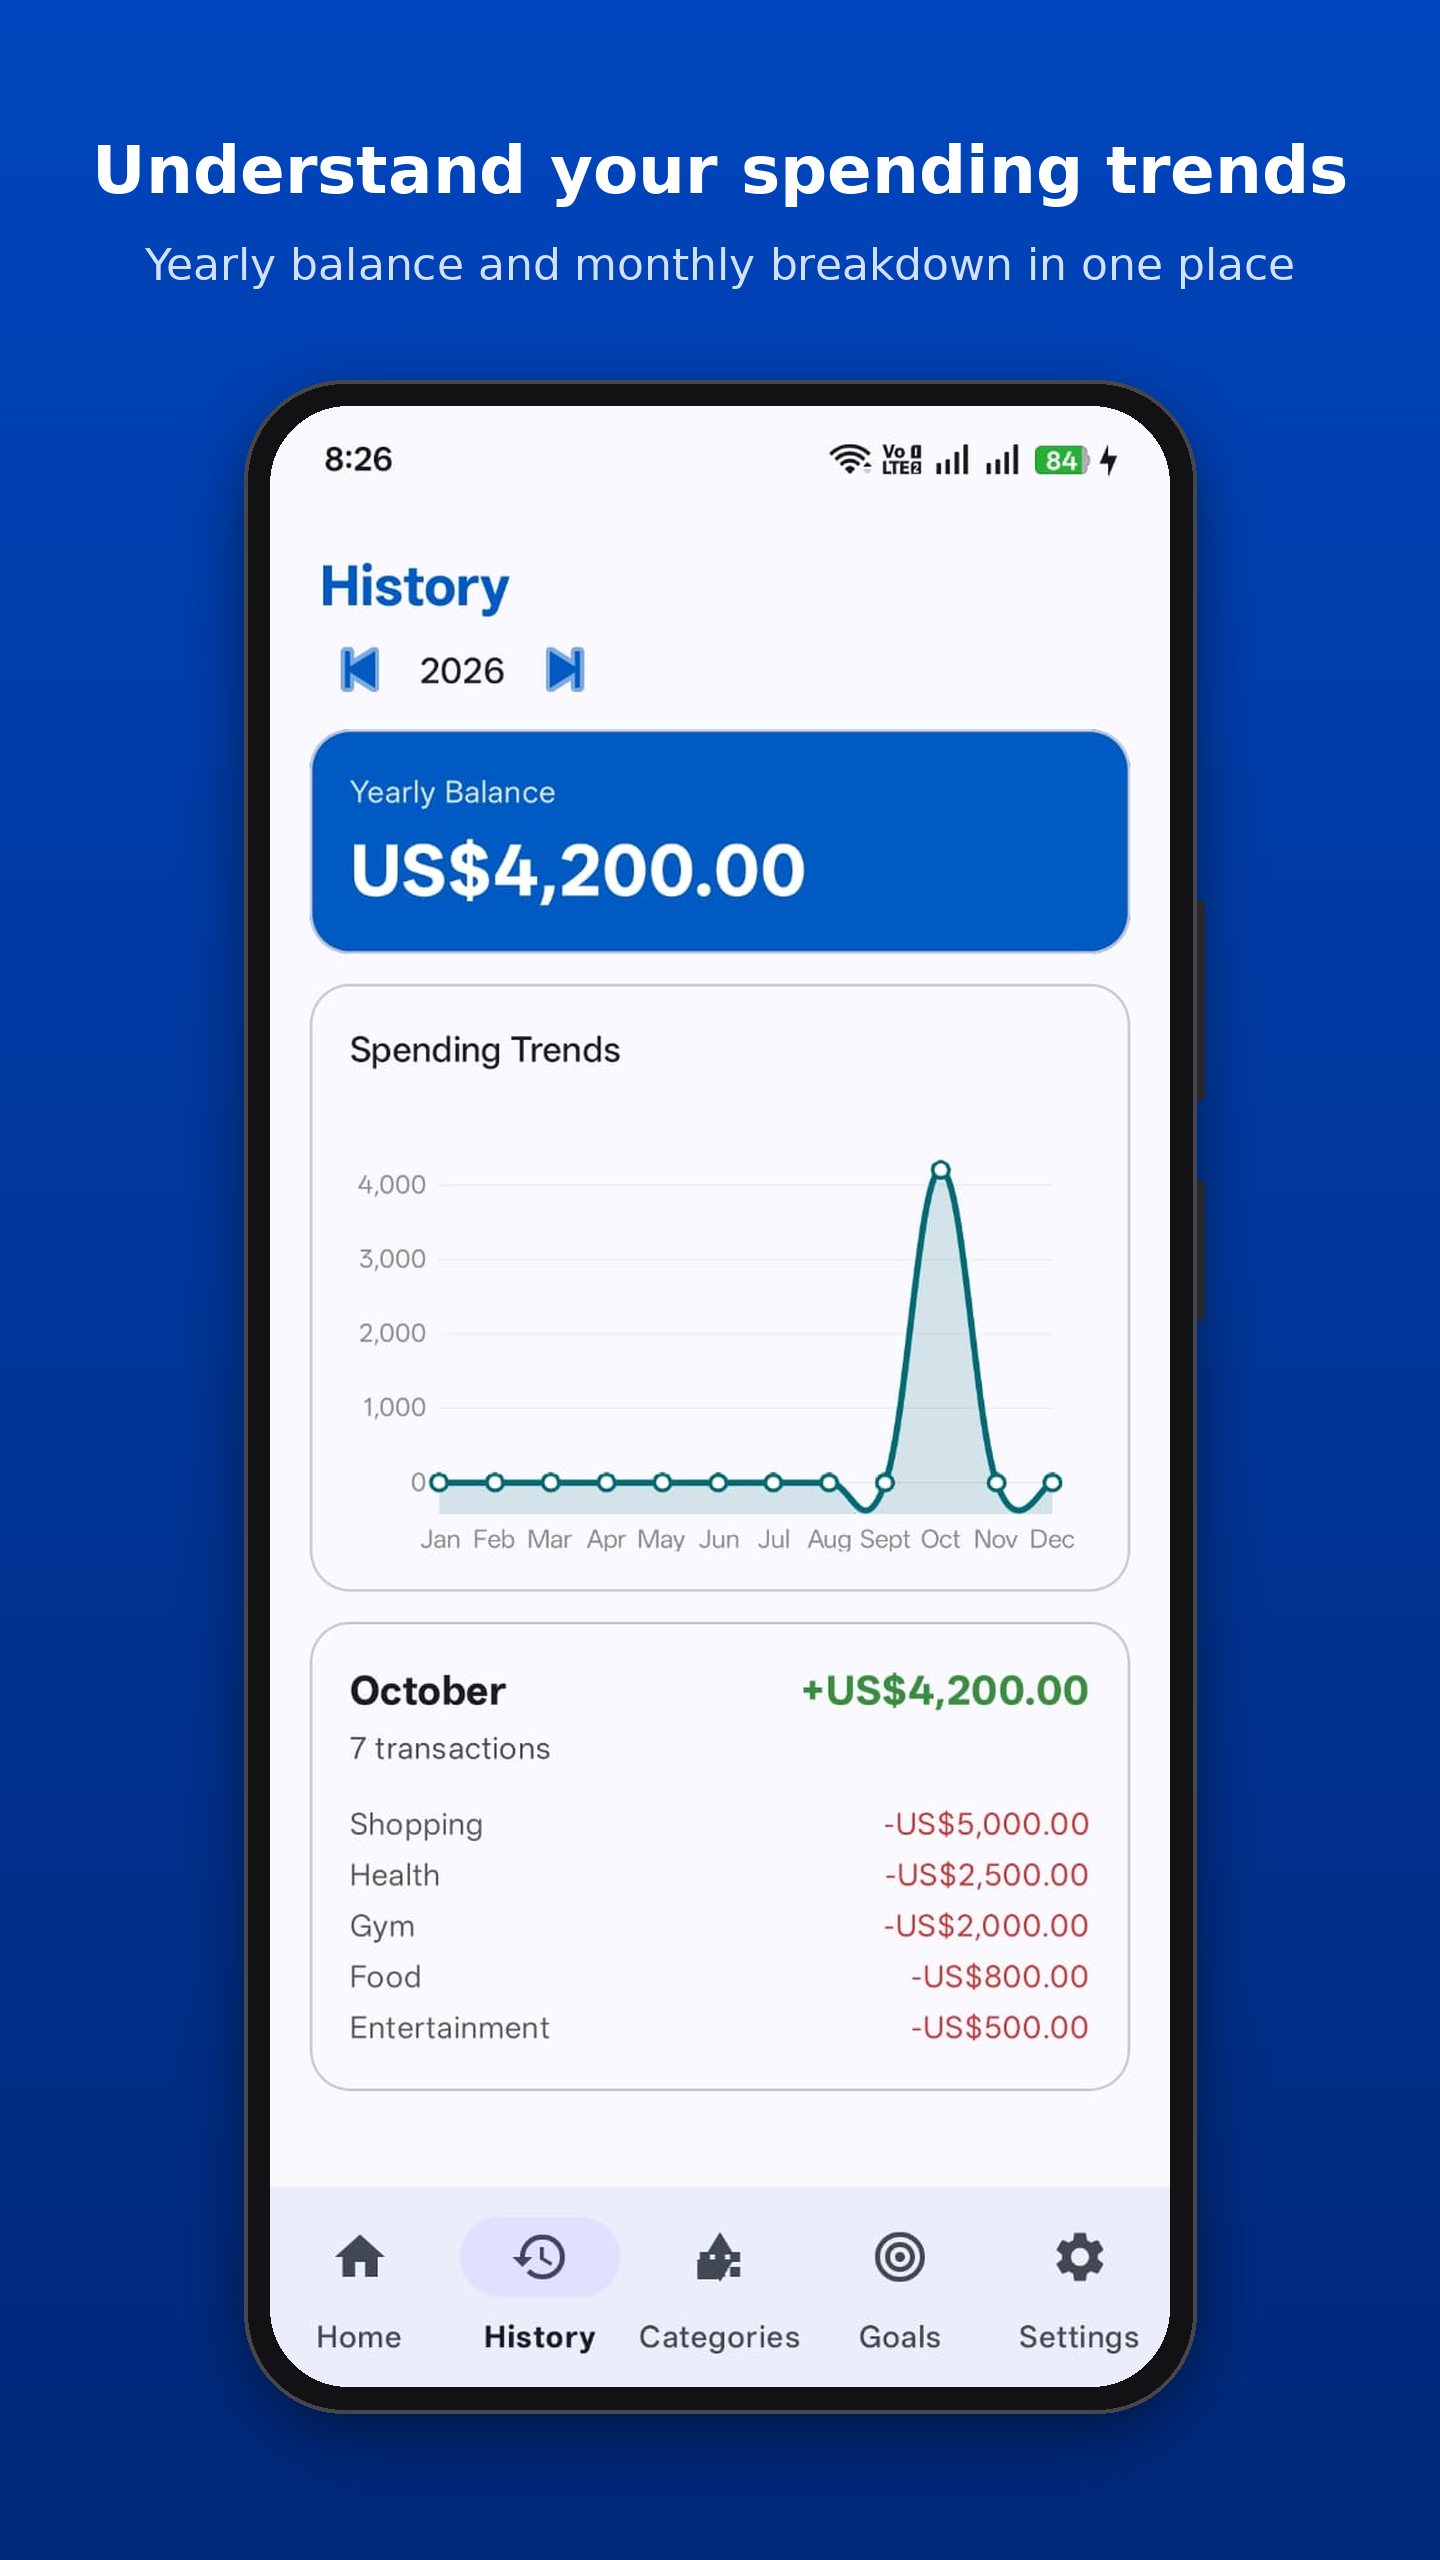
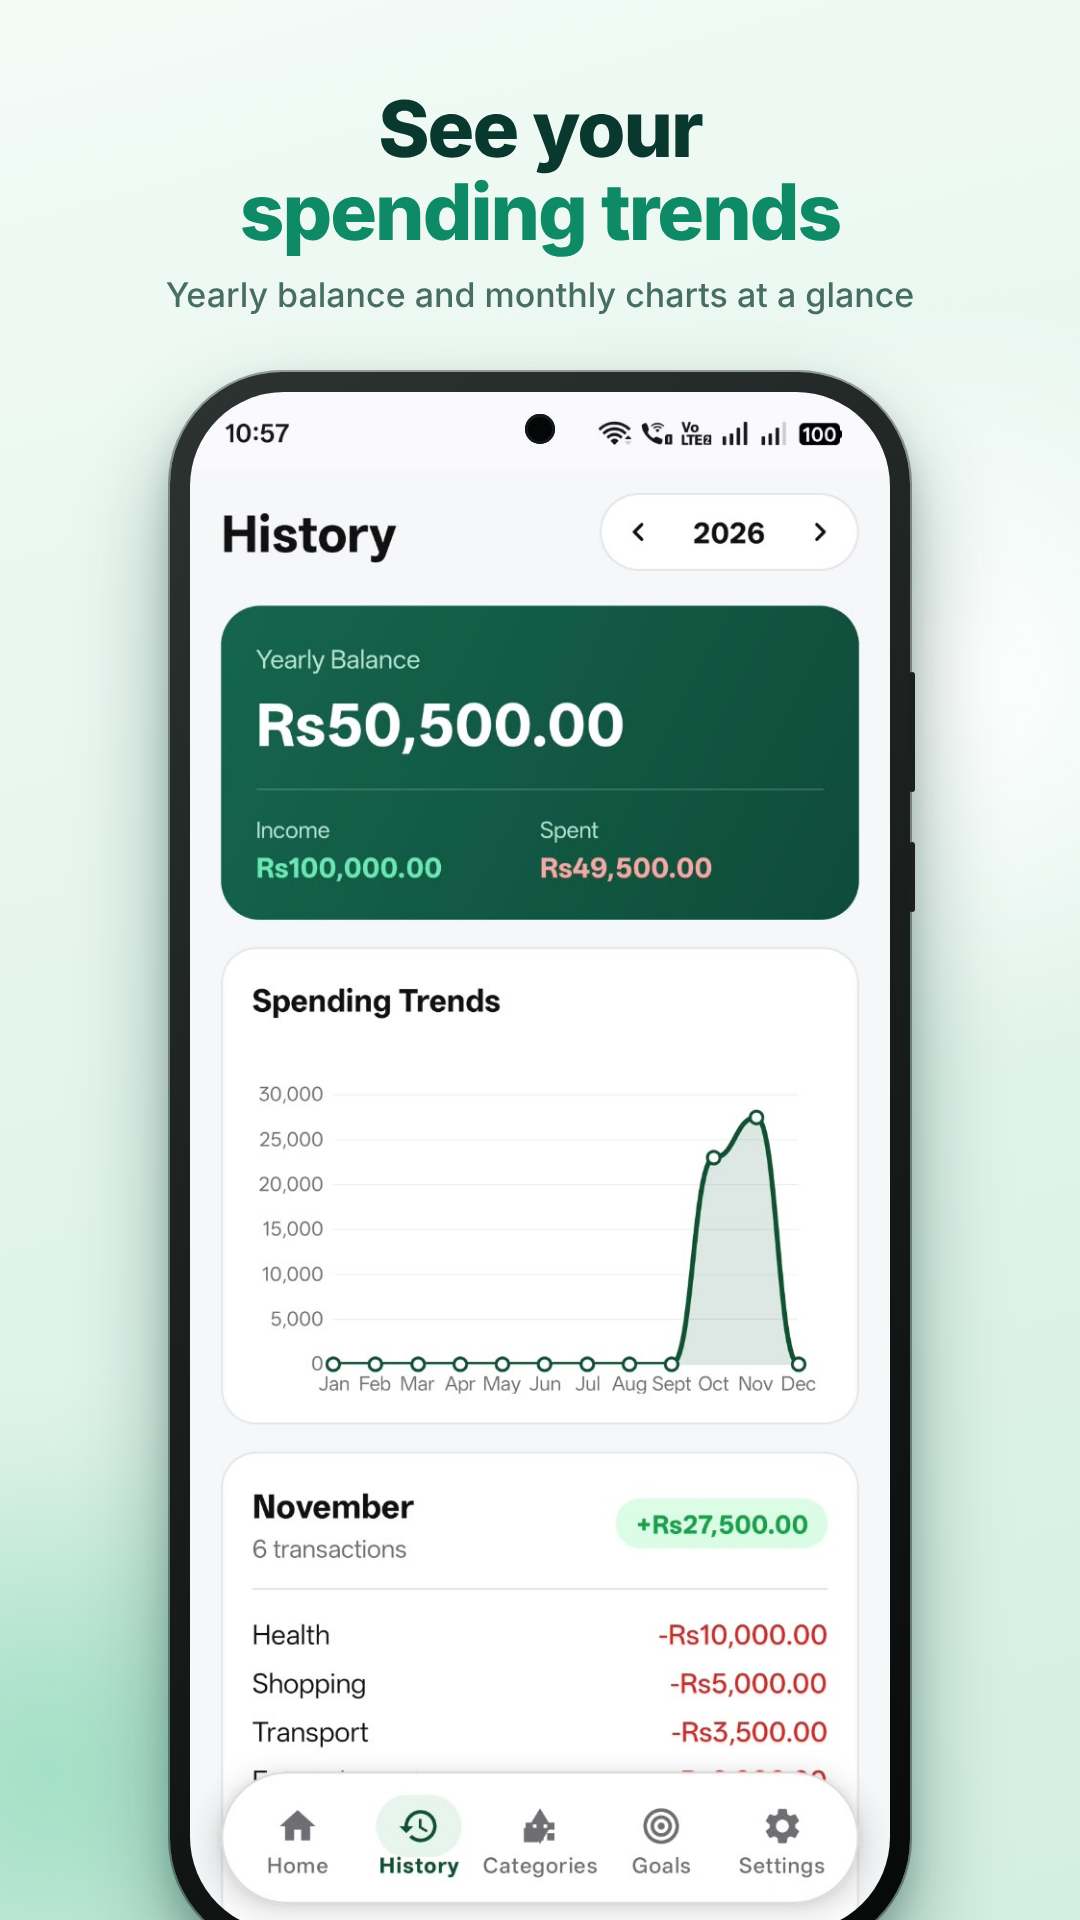
docs: update screenshots and showcase new feature previews in readme

diff --git a/README.md b/README.md
@@ -17,9 +17,11 @@ SpendWise is a modern, offline-first Android expense tracker built with Material
 
 ## Screenshots
 
-| Dashboard | Add Expense | Monthly Analysis | Settings |
-| :---: | :---: | :---: | :---: |
-| ![Dashboard](docs/screenshots/dashboard.png) | ![Add Expense](docs/screenshots/add_expense.png) | ![Monthly Analysis](docs/screenshots/analysis.png) | ![Settings](docs/screenshots/settings.png) |
+| Dashboard | Add Expense | Spending Trends |
+| :---: | :---: | :---: |
+| ![Dashboard](docs/screenshots/dashboard.png) | ![Add Expense](docs/screenshots/add_expense.png) | ![Spending Trends](docs/screenshots/analysis.png) |
+| **Reports and Export** | **Reminders and Settings** | **Light and Dark Themes** |
+| ![Reports and Export](docs/screenshots/report.png) | ![Reminders and Settings](docs/screenshots/settings.png) | ![Light and Dark Themes](docs/screenshots/light_dark.png) |
 
 ## What is New in v1.1.0
 
